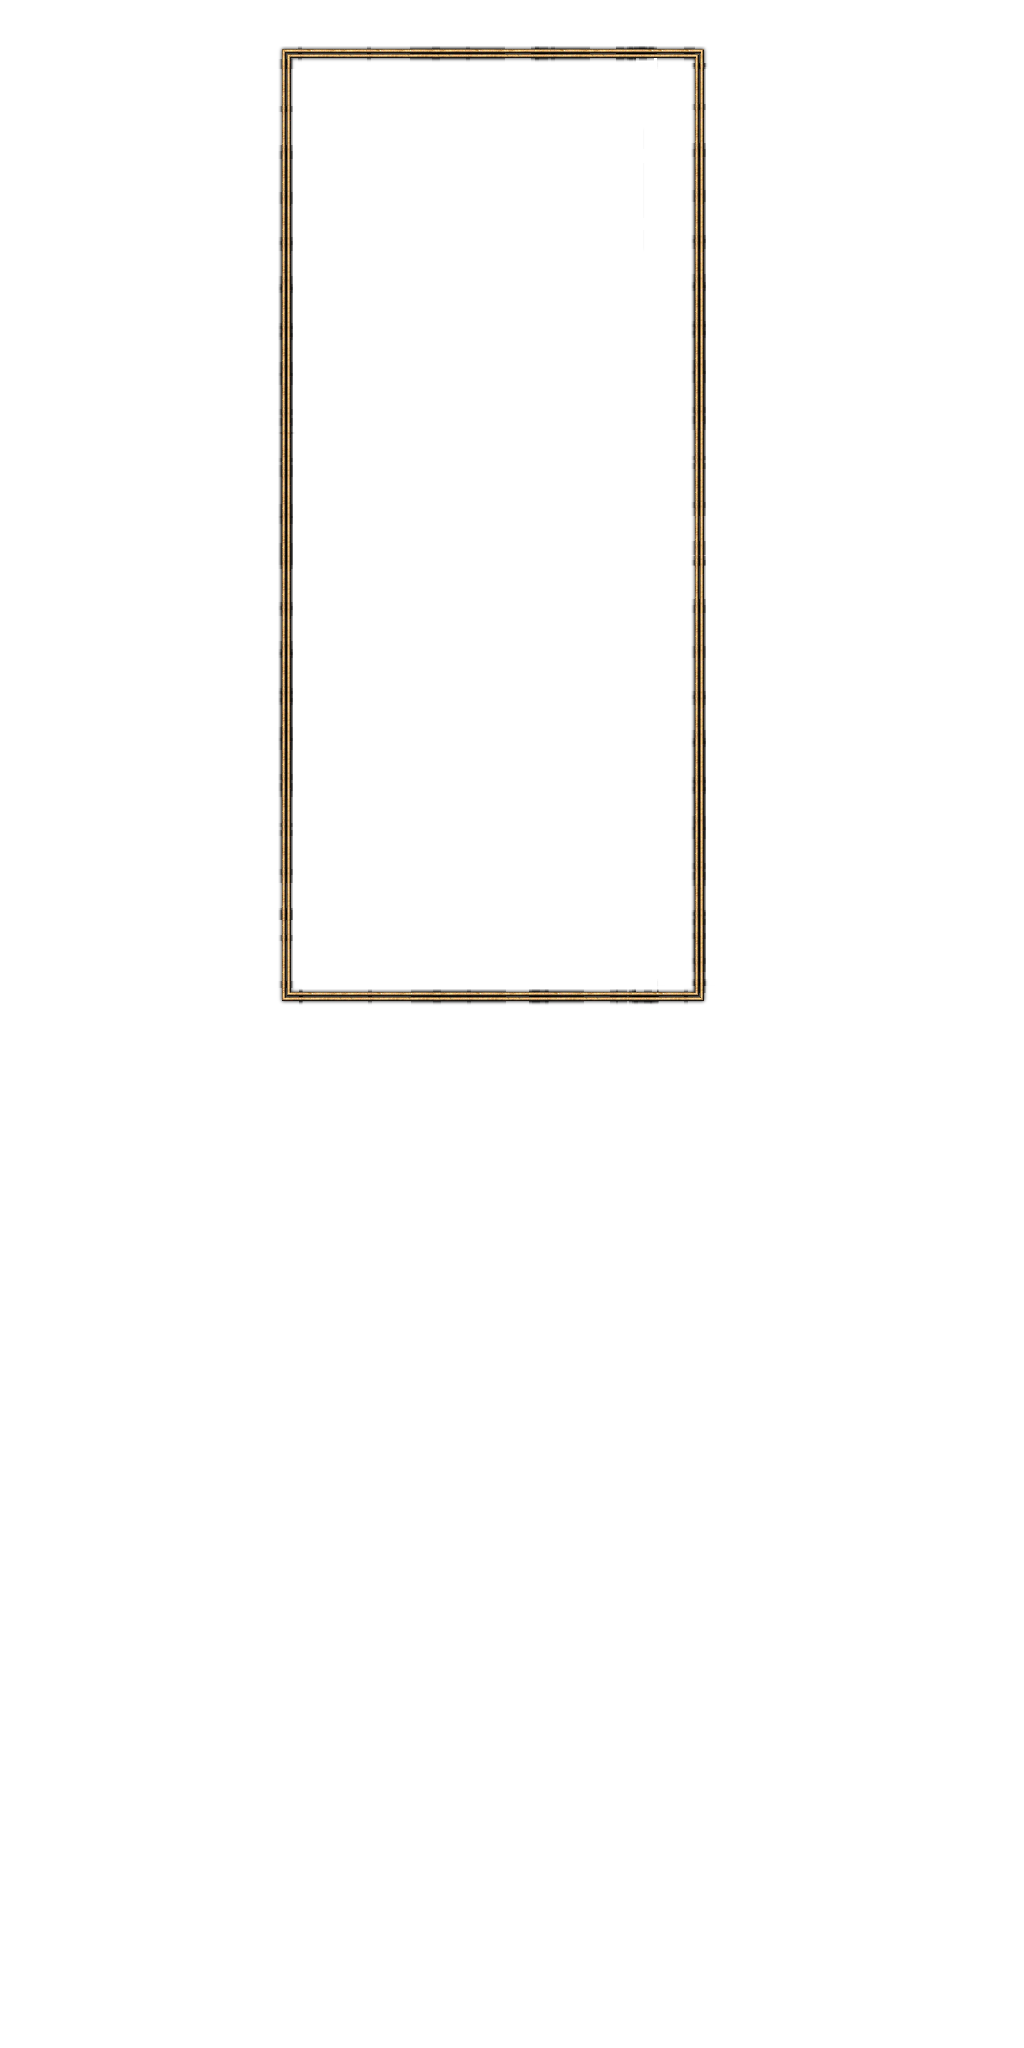
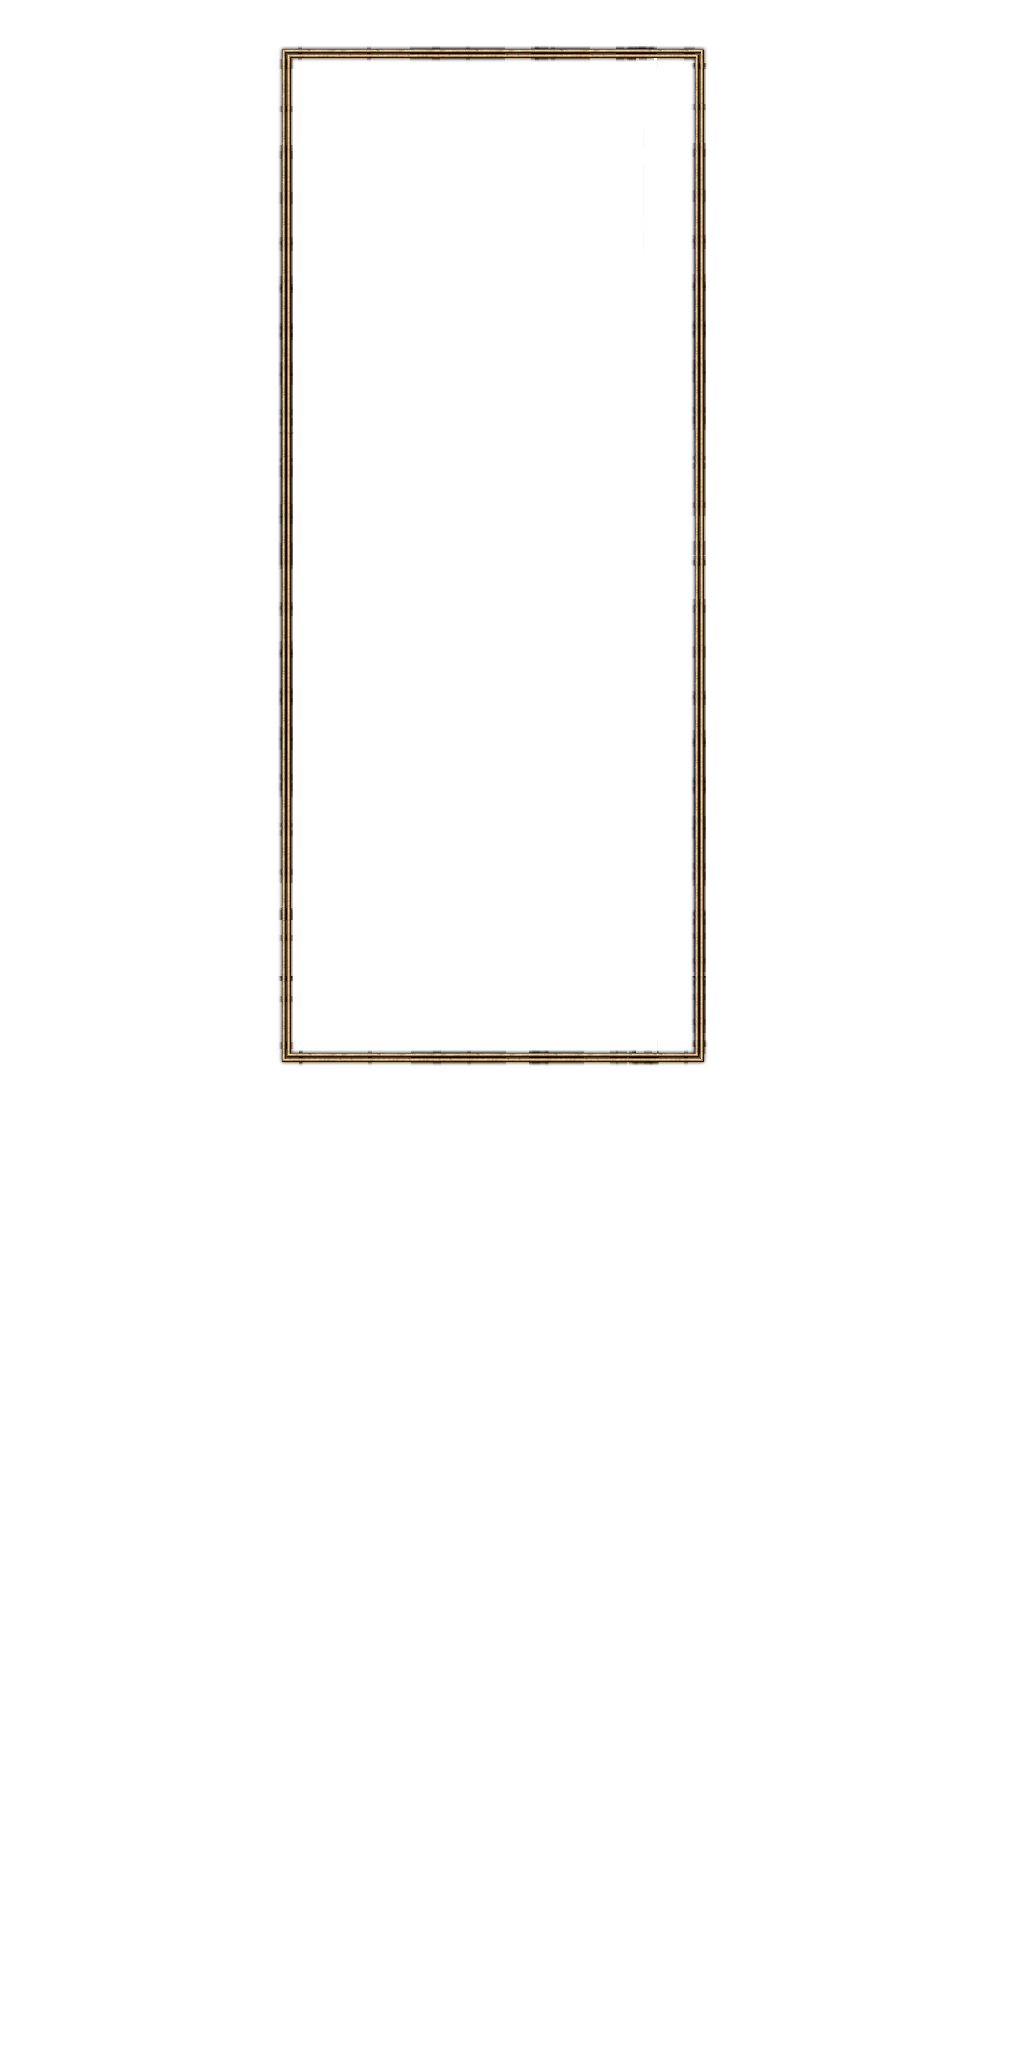
character form visuals

Changed region(s): [[0.25, 0.4688, 0.6875, 0.5312]]

diff --git a/app/client/components/creationForm/CharacterForm.js b/app/client/components/creationForm/CharacterForm.js
@@ -32,25 +32,28 @@ const CharacterForm = React.createClass({
 		const {hero, statLowCap, statHighCap, skillLowCap, skillHighCap} = this.props;
 		return (
 			<Form horizontal className='form formBorder'>
-				{( this.props.levelUp ? null :
-        <div>
-          <FormGroup>
-  		      <Col smOffset={2} sm={2}>
-              <ControlLabel>Character Name</ControlLabel>
-            </Col>
-  				</FormGroup>
-          <FormGroup>
-            <Col smOffset={2} sm={2} style={{width: '230px'}}>
-              <FormControl
-                type="text"
-                value={this.state.name}
-                placeholder="Character Name"
-                onChange={this.handleChange}
-                className='nameInput'/>
-            </Col>
-          </FormGroup>
-        </div>
-        )}
+        <FormGroup >
+		      <Col smOffset={2} sm={4}>
+            <ControlLabel>Character Name</ControlLabel>
+          </Col>
+				</FormGroup>
+        <FormGroup>
+          <Col smOffset={2} sm={2} style={{width: '230px'}}>
+            <div className='nameBorder'>
+            {
+              this.props.levelUp ?
+                <div className='heroName'>{this.state.name}</div>
+              :
+                <FormControl
+                  type="text"
+                  value={this.state.name}
+                  onChange={this.handleChange}
+                  className='nameInput'
+                  style={{border: 'none', 'boxShadow':'none', 'WebkitBoxShadow': 'none', 'outline': 'none' }}/>
+            }
+            </div>
+          </Col>
+        </FormGroup>
 
         <FormGroup className='noSelect'>
         	<Col smOffset={2} sm={1} className='formTitle'>Stats</Col>
@@ -58,7 +61,7 @@ const CharacterForm = React.createClass({
         </FormGroup>
         <FormGroup>
 	    		{Object.keys(hero.stats).map((k, i) =>
-            <Col smOffset={2}>
+            <Col smOffset={2} key={i}>
   	    			<Entry {...this.props}
       					group='stats'
       					stat={k}
@@ -76,7 +79,7 @@ const CharacterForm = React.createClass({
         </FormGroup>
         <FormGroup>
 				 	{Object.keys(hero.skills).map((k, i) =>
-            <Col smOffset={2}>
+            <Col smOffset={2} key={i}>
   				 		<Entry {...this.props}
   				 		  group='skills'
   				 		  stat={k}

diff --git a/app/client/styles/stylesheet.css b/app/client/styles/stylesheet.css
@@ -134,7 +134,6 @@ body {
   background-color: #DDD;
   margin-bottom: 1px;
   vertical-align: middle;
-  height: 20px;
   padding-left: 8px;
 }
 
@@ -296,6 +295,19 @@ button {
   left: 250px;
 }
 
+.heroName {
+  color: gold;
+  font-family: 'Zapf Chancery';
+  font-style: italic;
+  font-weight: bold;
+  font-size: 25px;
+  background: linear-gradient(#FFF65C 0%, #9A8000 100%);
+  text-shadow: -0.02em -0.03em 0.005em rgba(255, 223, 0, 0.70);
+  -webkit-background-clip: text;
+  -webkit-text-fill-color: transparent;
+
+}
+
 .inputContainer {
   width: 120px;
 }
@@ -357,19 +369,19 @@ button {
   background-position: -40px -490px;
 }
 
-.leftBorder {
-  position: relative;
-  left: 225px;
-  top: -900px;
-  height: 55px;
-  width: 15px;
-  background-position: -855px -225px;
-}
-
 .formBorder {
+  width: 450px;
+  margin-left: 230px;
   padding-top: 25px;
   padding-bottom: 25px;
   background-image: url('../assets/gui/formBorder.png');
   background-repeat: no-repeat;
-  background-position: -45px -45px;
+  background-position: -265px -45px;
+}
+
+.nameBorder {
+  padding: 5px 14px;
+  background-image: url('../assets/gui/nameBorder.png');
+  background-repeat: no-repeat;
+  background-position: -170px -224px;
 }
